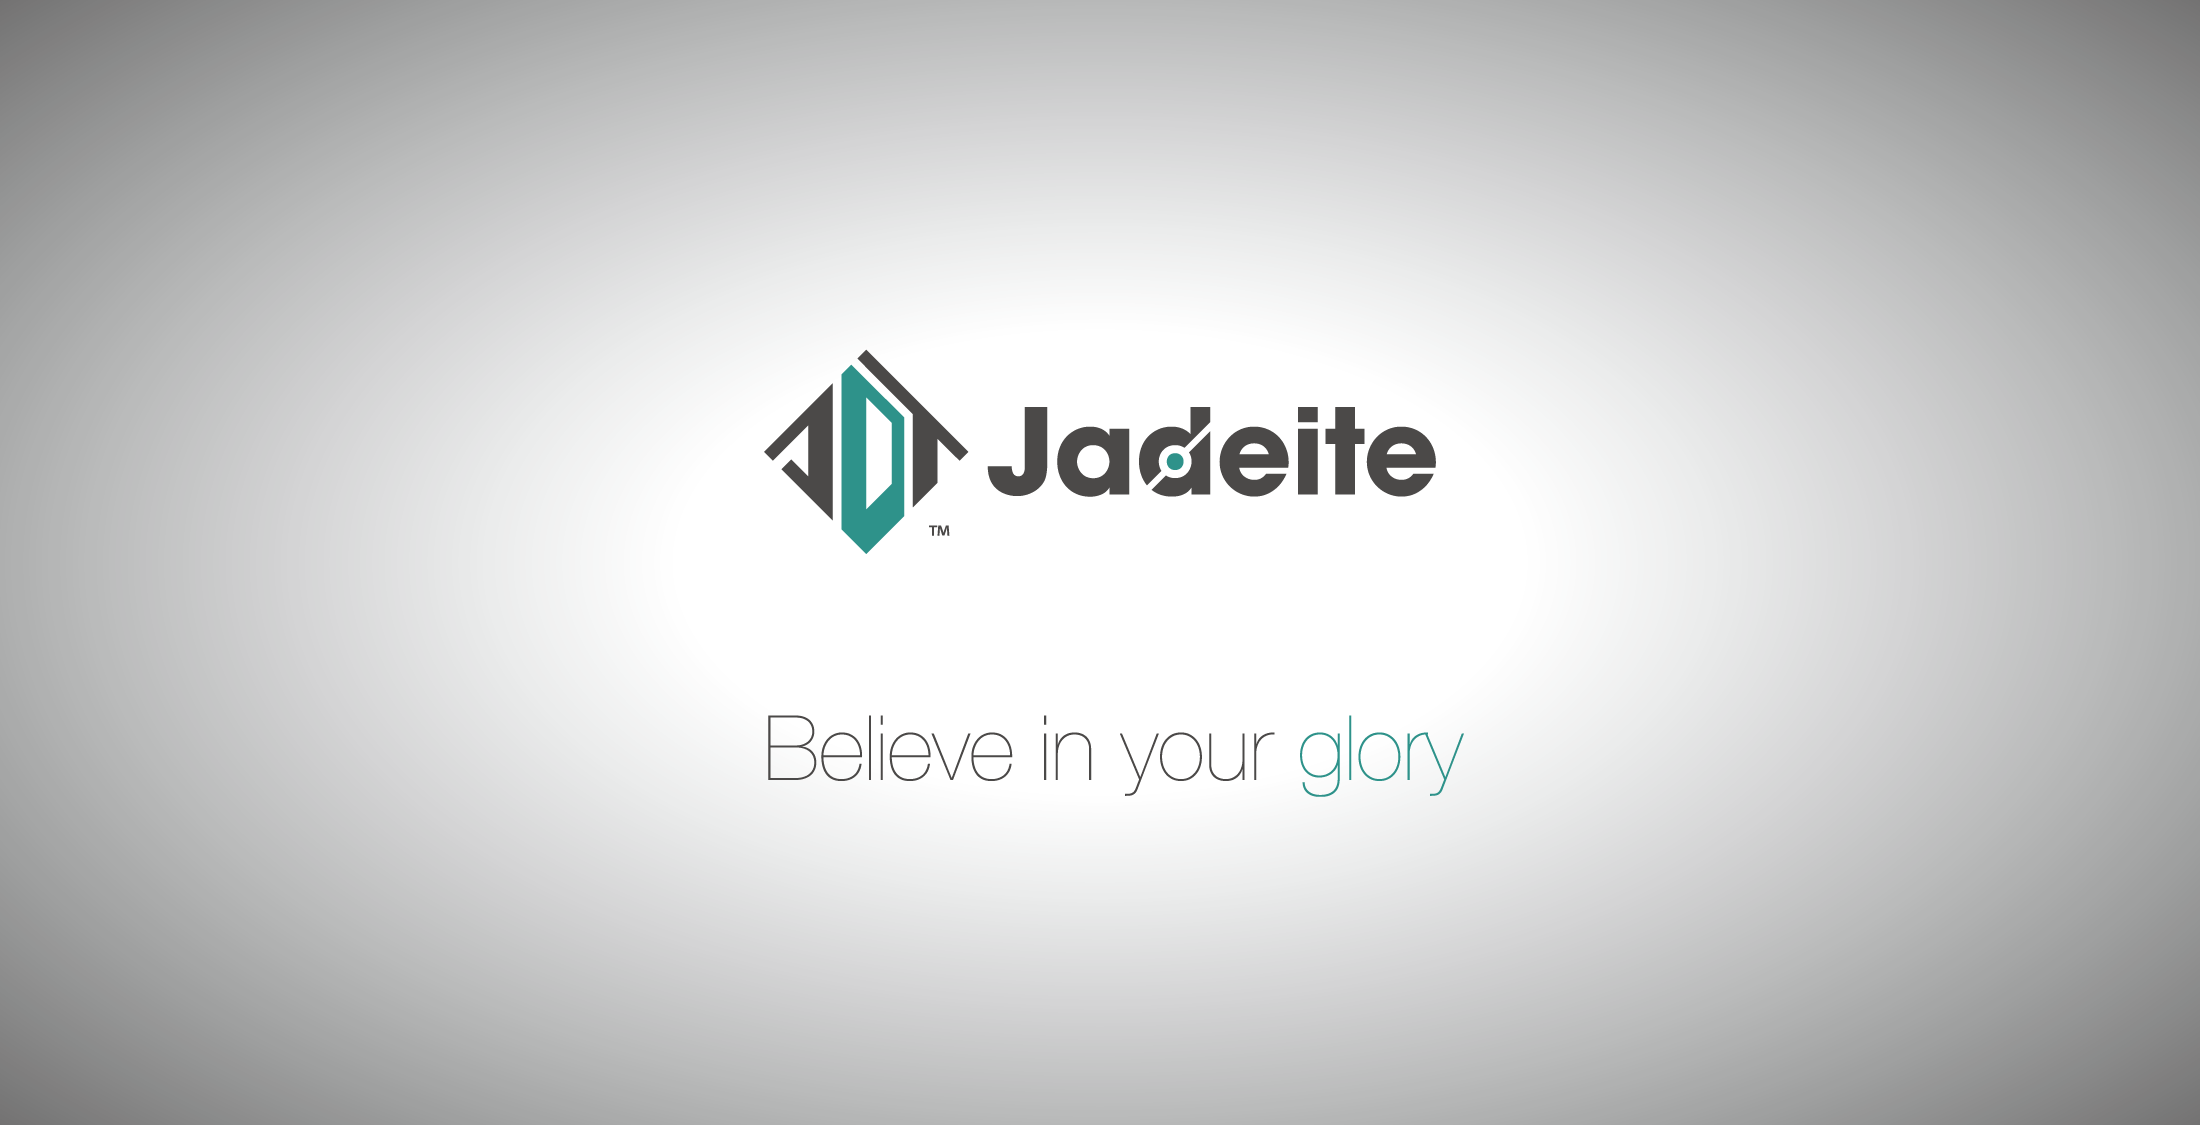
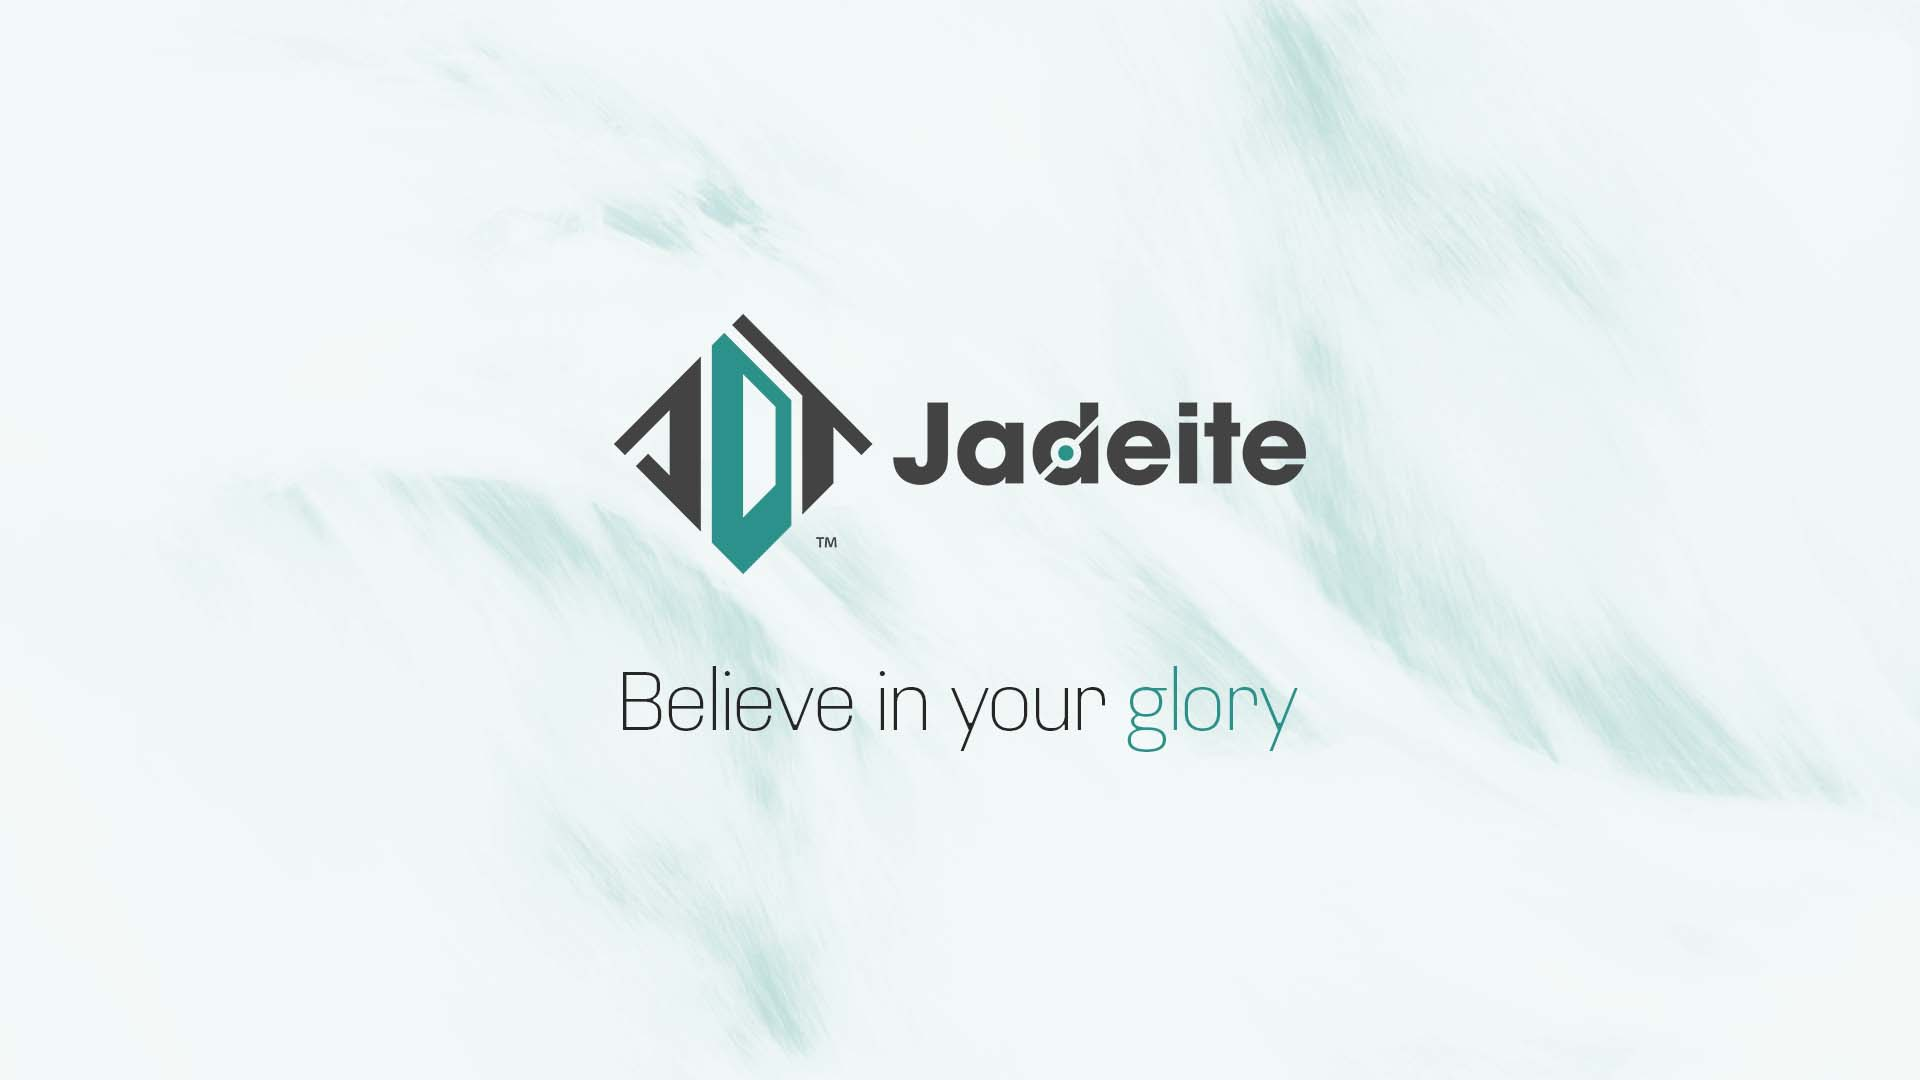
[add] キービジュアル画像切替

diff --git a/02_production_site/src/pages/index.vue b/02_production_site/src/pages/index.vue
@@ -2,16 +2,20 @@
   <div>
     <div class="hero-wrapper">
       <div class="slider">
-        <transition-group name='fade'>
-          <img
-           v-for="(slide, idx) in slides"
-           :key="slide"
-           v-show="idx === current"
-           :src="slides[idx]"
-           alt="Hero Image"
-           class="slider-img"
-          />
-        </transition-group>
+        <!-- 単一画像出力ロジック -->
+        <img src="/hero-image.png" alt="Hero Image" class="slider-img" />
+
+        <!-- キービジュアル切り替えロジック -->
+        <!-- <transition-group name='fade'>
+          <picture
+            v-for="(slide, idx) in responsiveSlides"
+            :key="`slide_${idx}`"
+            v-show="idx === current"
+          >
+            <source media='(min-width: 640px)' :srcset='slide.web' />
+            <img :src="slide.mobile" alt="Hero Image" class="slider-img">
+          </picture>
+        </transition-group> -->
         <div class="block lg:hidden absolute bottom-1 left-1/2 transform -translate-x-1/2 text-center">
           <p class="mb-1 text-xl text-white font-semibold">SCROLL</p>
           <fa class="text-2xl text-white " :icon="chevronDown" />
@@ -115,21 +119,28 @@ export default defineComponent({
       })
       newsItems.value = contents
     })
-    const sponsors = ref()
+    const sponsors = ref<sponsors[]>()
     useFetch(async () => {
       const { contents } = await $microcms.get<MicroResponseType<sponsors>>({endpoint: 'sponsors'})
       sponsors.value = contents
     })
 
-    const slides = ref([
-      'hero-image.png',
-    ])
-
+    // Heroスライド画像
     const current = ref(0)
+    const responsiveSlides = [
+      {
+        web: 'hero-image.png',
+        mobile: 'ogp-image.png',
+      },
+      {
+        web: 'ogp-image.png',
+        mobile: 'hero-image.png',
+      },
+    ]
 
     onMounted(() => {
       setInterval(() => {
-        current.value = current.value < slides.value.length - 1 ? current.value + 1 : 0
+        current.value = current.value < responsiveSlides.length - 1 ? current.value + 1 : 0
       }, 6000)
     })
 
@@ -139,8 +150,8 @@ export default defineComponent({
       twitter,
       youtube,
       chevronDown,
-      slides,
       current,
+      responsiveSlides,
     }
   },
 })
